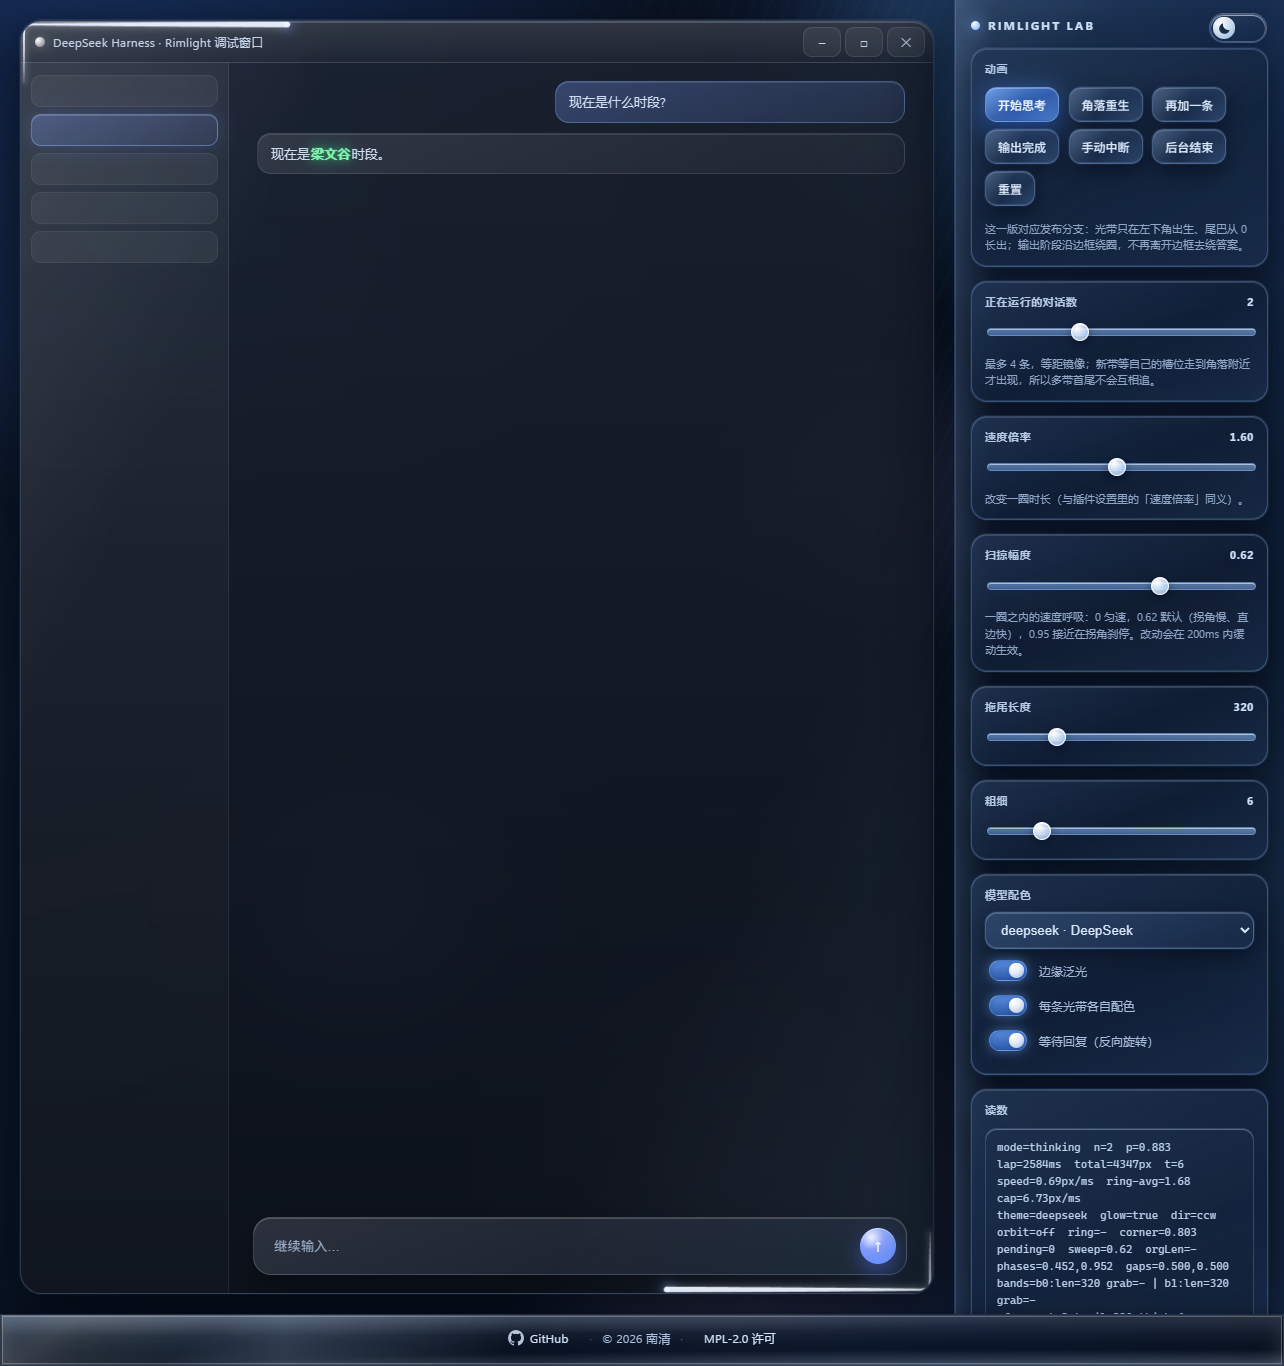
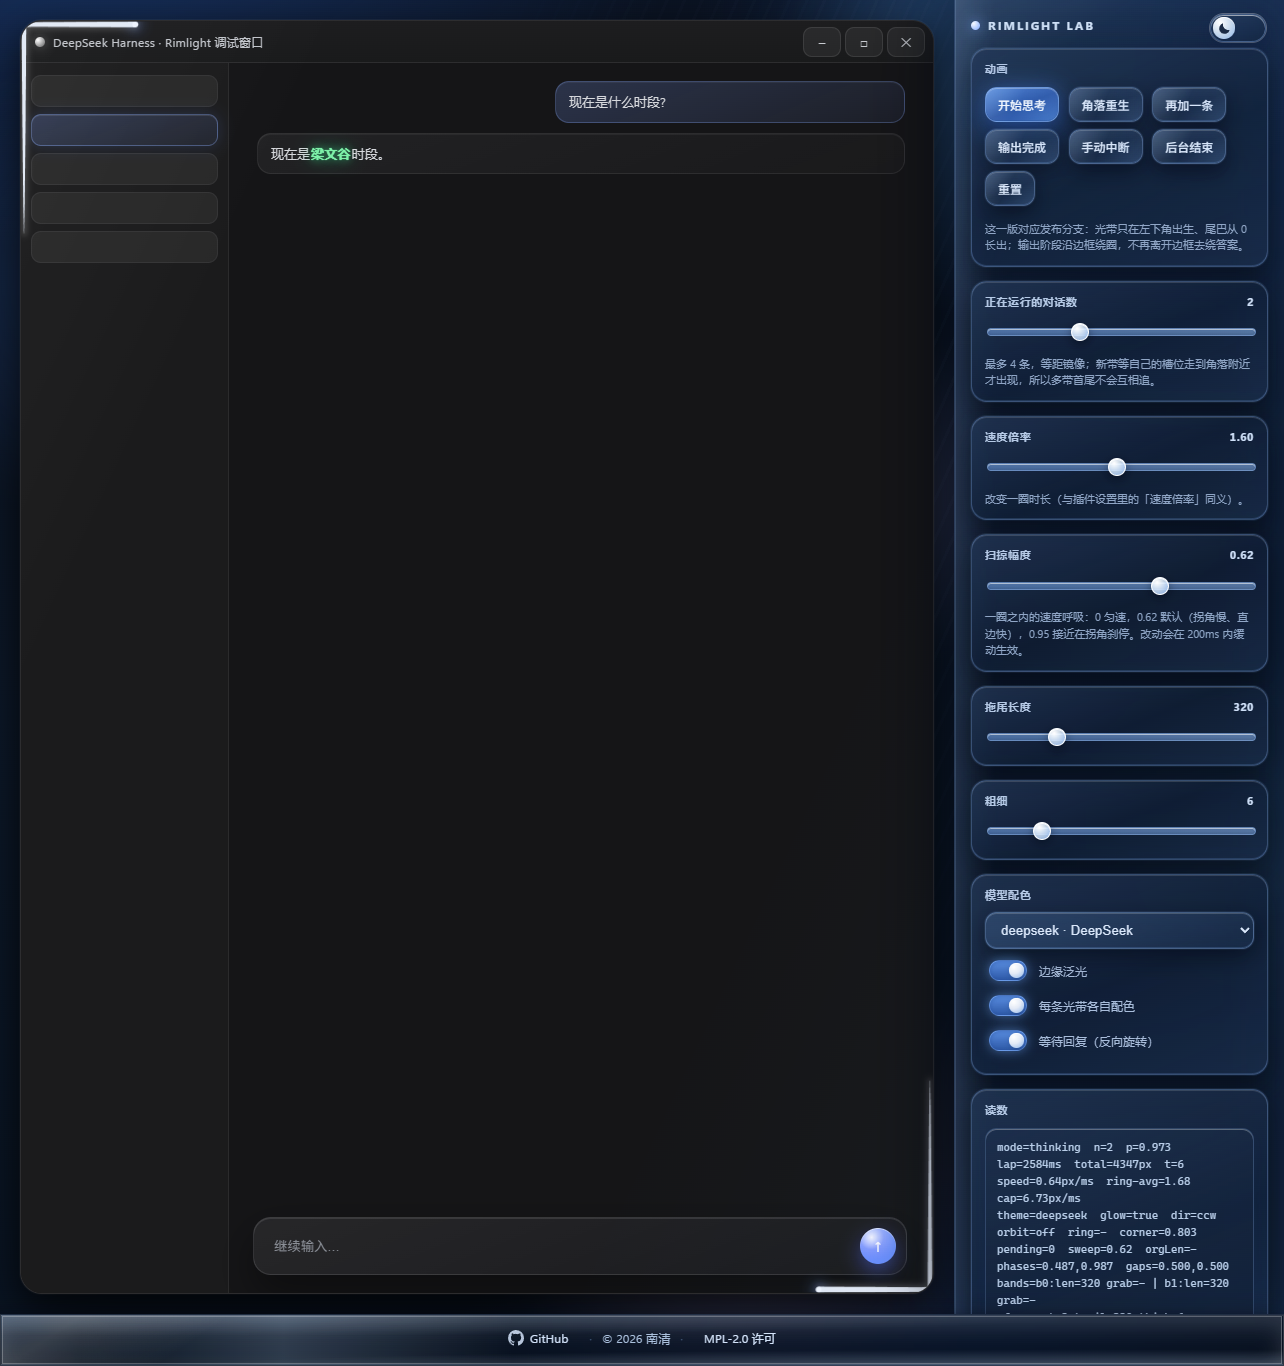
Theme the mock window per mode and fall back to a plain blur

diff --git a/lab/rimlight-lab.html b/lab/rimlight-lab.html
@@ -87,8 +87,42 @@
 		--toggle-fill: linear-gradient(158deg, rgba(40,62,94,0.82), rgba(22,38,60,0.70));
 		--toggle-knob: radial-gradient(circle at 32% 26%, #fff, rgba(226,240,255,0.9) 44%, rgba(150,190,240,0.95));
 		--toggle-ink: #1b2b45;
-		--frame-shadow: 0 40px 90px rgba(0,4,14,0.60), 0 12px 30px rgba(0,4,14,0.42), 0 2px 0 rgba(255,255,255,0.16) inset, 0 0 0 1px rgba(120,165,235,0.16);
-		--frame-border: rgba(150,192,255,0.22);
+		--frame-shadow: 0 34px 80px rgba(0,0,0,0.62), 0 10px 26px rgba(0,0,0,0.45), 0 1px 0 rgba(255,255,255,0.08) inset, 0 0 0 1px rgba(255,255,255,0.05);
+		--frame-border: rgba(255,255,255,0.10);
+		/* mock window (dark: neutral near-black, like the real client) */
+		--fr-bg: #151517;
+		--fr-sidebar: #1b1b1c;
+		--fr-titlebar: linear-gradient(180deg, #1d1d1f, #191a1b);
+		--fr-rule: rgba(255,255,255,0.07);
+		--fr-ink: #d7d9dd;
+		--fr-ink-strong: #e9ebef;
+		--fr-title-ink: #c3c6cc;
+		--fr-ctl-ink: #c8cbd1;
+		--fr-ctl-bg: rgba(255,255,255,0.06);
+		--fr-ctl-border: rgba(255,255,255,0.09);
+		--fr-row: rgba(255,255,255,0.055);
+		--fr-row-border: rgba(255,255,255,0.06);
+		--fr-row-sel: linear-gradient(160deg, rgba(122,158,255,0.24), rgba(122,158,255,0.08));
+		--fr-row-sel-border: rgba(140,175,255,0.34);
+		--fr-row-sel-glow: 0 0 16px rgba(96,140,255,0.18), 0 1px 0 rgba(255,255,255,0.10) inset;
+		--fr-bubble: linear-gradient(158deg, rgba(255,255,255,0.055), rgba(255,255,255,0.02));
+		--fr-bubble-border: rgba(255,255,255,0.075);
+		--fr-bubble-shadow: 0 1px 0 rgba(255,255,255,0.05) inset;
+		--fr-bubble-user: linear-gradient(158deg, rgba(122,158,255,0.22), rgba(122,158,255,0.07));
+		--fr-bubble-user-border: rgba(140,175,255,0.26);
+		--fr-answer: linear-gradient(158deg, rgba(255,255,255,0.05), rgba(255,255,255,0.015));
+		--fr-answer-border: rgba(255,255,255,0.08);
+		--fr-answer-shadow: 0 1px 0 rgba(255,255,255,0.05) inset, 0 12px 30px rgba(0,0,0,0.28);
+		--fr-line-a: rgba(233,235,239,0.55);
+		--fr-line-b: rgba(233,235,239,0.22);
+		--fr-composer: linear-gradient(158deg, rgba(255,255,255,0.075), rgba(255,255,255,0.02));
+		--fr-composer-border: rgba(255,255,255,0.11);
+		--fr-composer-shadow: 0 1px 0 rgba(255,255,255,0.10) inset, 0 18px 40px rgba(0,0,0,0.40);
+		--fr-placeholder: #8b8f97;
+		--fr-sheen-1: rgba(255,255,255,0.07);
+		--fr-sheen-2: rgba(120,200,255,0.06);
+		--fr-sheen-op: 0.5;
+		--fr-dot-glow: rgba(255,255,255,0.35);
 		--fallback-bg: rgba(16,26,42,0.94);
 	}
 	html[data-theme="light"] {
@@ -163,8 +197,42 @@
 		--toggle-fill: linear-gradient(158deg, rgba(250,254,255,0.85), rgba(214,236,255,0.55));
 		--toggle-knob: radial-gradient(circle at 32% 26%, #ffffff, rgba(255,255,255,0.86) 44%, rgba(190,216,250,0.95));
 		--toggle-ink: #2b4a78;
-		--frame-shadow: 0 40px 90px rgba(30,64,128,0.26), 0 12px 30px rgba(30,64,128,0.16), 0 2px 0 rgba(255,255,255,0.22) inset, 0 0 0 1px rgba(24,36,58,0.20);
-		--frame-border: rgba(255,255,255,0.30);
+		--frame-shadow: 0 30px 70px rgba(30,55,110,0.20), 0 8px 20px rgba(30,55,110,0.12), 0 0 0 1px rgba(20,20,24,0.05);
+		--frame-border: rgba(20,20,24,0.10);
+		/* mock window (light: plain white) */
+		--fr-bg: #ffffff;
+		--fr-sidebar: #f9fafb;
+		--fr-titlebar: linear-gradient(180deg, #fbfbfc, #f4f4f6);
+		--fr-rule: rgba(20,20,24,0.08);
+		--fr-ink: #24262b;
+		--fr-ink-strong: #15161a;
+		--fr-title-ink: #4b4f57;
+		--fr-ctl-ink: #4b4f57;
+		--fr-ctl-bg: rgba(20,20,24,0.035);
+		--fr-ctl-border: rgba(20,20,24,0.07);
+		--fr-row: rgba(20,20,24,0.035);
+		--fr-row-border: rgba(20,20,24,0.05);
+		--fr-row-sel: linear-gradient(160deg, rgba(122,158,255,0.20), rgba(122,158,255,0.07));
+		--fr-row-sel-border: rgba(110,150,240,0.35);
+		--fr-row-sel-glow: 0 0 14px rgba(96,140,255,0.14), 0 1px 0 rgba(255,255,255,0.9) inset;
+		--fr-bubble: linear-gradient(158deg, rgba(20,20,24,0.035), rgba(20,20,24,0.015));
+		--fr-bubble-border: rgba(20,20,24,0.07);
+		--fr-bubble-shadow: 0 1px 0 rgba(255,255,255,0.9) inset;
+		--fr-bubble-user: linear-gradient(158deg, rgba(77,107,254,0.14), rgba(77,107,254,0.06));
+		--fr-bubble-user-border: rgba(77,107,254,0.22);
+		--fr-answer: linear-gradient(158deg, rgba(20,20,24,0.03), rgba(20,20,24,0.012));
+		--fr-answer-border: rgba(20,20,24,0.07);
+		--fr-answer-shadow: 0 1px 0 rgba(255,255,255,0.9) inset, 0 10px 26px rgba(30,40,70,0.10);
+		--fr-line-a: rgba(21,22,26,0.42);
+		--fr-line-b: rgba(21,22,26,0.16);
+		--fr-composer: linear-gradient(158deg, #ffffff, #f6f8fb);
+		--fr-composer-border: rgba(20,20,24,0.10);
+		--fr-composer-shadow: 0 1px 0 rgba(255,255,255,1) inset, 0 14px 34px rgba(30,45,80,0.14);
+		--fr-placeholder: #8d9199;
+		--fr-sheen-1: rgba(255,255,255,0.90);
+		--fr-sheen-2: rgba(150,200,255,0.25);
+		--fr-sheen-op: 0.35;
+		--fr-dot-glow: rgba(120,150,255,0.55);
 		--fallback-bg: rgba(250,253,255,0.94);
 	}
 
@@ -218,6 +286,7 @@
 		border: 1px solid var(--edge-strong);
 		background: var(--toggle-fill);
 		-webkit-backdrop-filter: blur(10px) saturate(170%);
+		backdrop-filter: blur(10px) saturate(170%);
 		backdrop-filter: url(#lg-refract) blur(10px) saturate(170%);
 		box-shadow: 0 1px 0 rgba(255,255,255,0.55) inset, 0 6px 16px rgba(10,30,70,0.28), 0 0 0 1px rgba(255,255,255,0.30);
 		transition: background 260ms ease, border-color 260ms ease, box-shadow 260ms ease;
@@ -244,6 +313,7 @@
 		isolation: isolate;
 		background: var(--glass-fill);
 		-webkit-backdrop-filter: blur(var(--fr-blur)) saturate(var(--fr-sat));
+		backdrop-filter: blur(var(--fr-blur)) saturate(var(--fr-sat));
 		backdrop-filter: url(#lg-refract) blur(var(--fr-blur)) saturate(var(--fr-sat));
 		border: 1px solid var(--glass-rim);
 		box-shadow: var(--glass-shadow);
@@ -277,50 +347,53 @@
 	#stage { flex: 1 1 auto; display: flex; align-items: center; justify-content: center; padding: 20px; min-width: 0; z-index: 1; }
 
 	/* ---------------- the mock app window (stays dark: the band lives on it) ---------------- */
+	/* ---------------- the mock app window (theme aware) ---------------- */
 	#frame {
 		position: relative;
 		width: 100%; height: 100%; max-width: 1180px;
 		border-radius: 22px;
-		background:
-			linear-gradient(180deg, rgba(26,32,44,0.90), rgba(13,18,27,0.94)),
-			radial-gradient(120% 90% at 18% 0%, rgba(120,160,255,0.16), transparent 60%);
+		background: var(--fr-bg);
 		-webkit-backdrop-filter: blur(22px) saturate(140%);
 		backdrop-filter: blur(22px) saturate(140%);
 		border: 1px solid var(--frame-border);
 		box-shadow: var(--frame-shadow);
 		overflow: hidden;
+		transition: background 320ms ease, border-color 320ms ease, box-shadow 320ms ease;
 	}
 	#frame::after {
 		content: ""; position: absolute; inset: 0; border-radius: inherit; pointer-events: none;
-		background: linear-gradient(115deg, rgba(255,255,255,0.14) 0%, rgba(255,255,255,0) 22%, rgba(255,255,255,0) 74%, rgba(120,200,255,0.12) 100%);
-		mix-blend-mode: screen; opacity: 0.7;
+		background: linear-gradient(115deg, var(--fr-sheen-1) 0%, rgba(255,255,255,0) 22%, rgba(255,255,255,0) 74%, var(--fr-sheen-2) 100%);
+		mix-blend-mode: screen; opacity: var(--fr-sheen-op);
+		transition: background 320ms ease, opacity 320ms ease;
 	}
 	#frame .titlebar {
 		position: absolute; inset: 0 0 auto 0; height: 42px; display: flex; align-items: center; gap: 8px;
-		padding: 0 14px; font-size: 12px; color: #c2d0e6; letter-spacing: 0.02em;
-		background: linear-gradient(180deg, rgba(255,255,255,0.10), rgba(255,255,255,0.02));
-		border-bottom: 1px solid rgba(255,255,255,0.08);
+		padding: 0 14px; font-size: 12px; color: var(--fr-title-ink); letter-spacing: 0.02em;
+		background: var(--fr-titlebar);
+		border-bottom: 1px solid var(--fr-rule);
+		transition: background 320ms ease, color 240ms ease, border-color 320ms ease;
 	}
-	#frame .titlebar .dot { width: 10px; height: 10px; border-radius: 50%; background: radial-gradient(circle at 30% 30%, #fff, rgba(255,255,255,0.25)); box-shadow: 0 0 12px rgba(255,255,255,0.35); }
+	#frame .titlebar .dot { width: 10px; height: 10px; border-radius: 50%; background: radial-gradient(circle at 30% 30%, #fff, rgba(255,255,255,0.25)); box-shadow: 0 0 12px var(--fr-dot-glow); }
 	#frame .wincontrols { position: absolute; right: 8px; top: 6px; height: 30px; display: flex; gap: 4px; }
-	#frame .wincontrols i { width: 38px; height: 30px; display: flex; align-items: center; justify-content: center; font-style: normal; color: #c6d4ea; border-radius: 9px; background: rgba(255,255,255,0.06); border: 1px solid rgba(255,255,255,0.10); }
-	#frame .sidebar { position: absolute; left: 0; top: 42px; bottom: 0; width: 208px; padding: 12px 10px; border-right: 1px solid rgba(255,255,255,0.07); background: linear-gradient(180deg, rgba(255,255,255,0.05), rgba(255,255,255,0.015)); }
-	#frame .sidebar .row { height: 32px; border-radius: 10px; margin-bottom: 7px; background: rgba(255,255,255,0.05); border: 1px solid rgba(255,255,255,0.055); }
-	#frame .sidebar .row.sel { background: linear-gradient(160deg, rgba(122,158,255,0.30), rgba(122,158,255,0.10)); border-color: rgba(140,175,255,0.42); box-shadow: 0 0 18px rgba(96,140,255,0.22), 0 1px 0 rgba(255,255,255,0.16) inset; }
+	#frame .wincontrols i { width: 38px; height: 30px; display: flex; align-items: center; justify-content: center; font-style: normal; color: var(--fr-ctl-ink); border-radius: 9px; background: var(--fr-ctl-bg); border: 1px solid var(--fr-ctl-border); transition: background 320ms ease, color 240ms ease; }
+	#frame .sidebar { position: absolute; left: 0; top: 42px; bottom: 0; width: 208px; padding: 12px 10px; border-right: 1px solid var(--fr-rule); background: var(--fr-sidebar); transition: background 320ms ease, border-color 320ms ease; }
+	#frame .sidebar .row { height: 32px; border-radius: 10px; margin-bottom: 7px; background: var(--fr-row); border: 1px solid var(--fr-row-border); transition: background 320ms ease, border-color 320ms ease; }
+	#frame .sidebar .row.sel { background: var(--fr-row-sel); border-color: var(--fr-row-sel-border); box-shadow: var(--fr-row-sel-glow); }
 	#frame .convo { position: absolute; left: 208px; right: 0; top: 42px; bottom: 0; padding: 18px 28px 100px; overflow: hidden; }
-	#frame .bubble { border-radius: 14px; padding: 10px 13px; margin-bottom: 10px; color: #d2dff2; background: linear-gradient(158deg, rgba(255,255,255,0.10), rgba(255,255,255,0.03)); border: 1px solid rgba(255,255,255,0.10); box-shadow: 0 1px 0 rgba(255,255,255,0.10) inset; }
-	#frame .bubble.user { width: 54%; margin-left: auto; background: linear-gradient(158deg, rgba(120,158,255,0.30), rgba(120,158,255,0.10)); border-color: rgba(140,175,255,0.34); }
-	#frame #answer { border-radius: 16px; padding: 13px 15px; min-height: 56px; color: #e8f0fd; background: linear-gradient(158deg, rgba(255,255,255,0.08), rgba(255,255,255,0.02)); border: 1px solid rgba(255,255,255,0.11); box-shadow: 0 1px 0 rgba(255,255,255,0.10) inset, 0 12px 30px rgba(0,0,0,0.20); }
+	#frame .bubble { border-radius: 14px; padding: 10px 13px; margin-bottom: 10px; color: var(--fr-ink); background: var(--fr-bubble); border: 1px solid var(--fr-bubble-border); box-shadow: var(--fr-bubble-shadow); transition: background 320ms ease, color 240ms ease, border-color 320ms ease; }
+	#frame .bubble.user { width: 54%; margin-left: auto; background: var(--fr-bubble-user); border-color: var(--fr-bubble-user-border); }
+	#frame #answer { border-radius: 16px; padding: 13px 15px; min-height: 56px; color: var(--fr-ink-strong); background: var(--fr-answer); border: 1px solid var(--fr-answer-border); box-shadow: var(--fr-answer-shadow); transition: background 320ms ease, color 240ms ease, border-color 320ms ease; }
 	#frame #answer:empty { display: none; }
-	#frame #answer .ln { height: 9px; border-radius: 5px; margin-bottom: 8px; background: linear-gradient(90deg, rgba(226,238,255,0.62), rgba(226,238,255,0.30)); }
+	#frame #answer .ln { height: 9px; border-radius: 5px; margin-bottom: 8px; background: linear-gradient(90deg, var(--fr-line-a), var(--fr-line-b)); }
 	#frame .composer {
 		position: absolute; left: 232px; right: 26px; bottom: 18px; height: 58px; display: flex; align-items: center; gap: 10px;
-		padding: 0 10px 0 18px; color: #9fb0c9; border-radius: 18px;
-		background: linear-gradient(158deg, rgba(255,255,255,0.13), rgba(255,255,255,0.04));
+		padding: 0 10px 0 18px; color: var(--fr-placeholder); border-radius: 18px;
+		background: var(--fr-composer);
 		-webkit-backdrop-filter: blur(18px) saturate(150%);
 		backdrop-filter: blur(18px) saturate(150%);
-		border: 1px solid rgba(255,255,255,0.16);
-		box-shadow: 0 1px 0 rgba(255,255,255,0.18) inset, 0 18px 40px rgba(0,0,0,0.38);
+		border: 1px solid var(--fr-composer-border);
+		box-shadow: var(--fr-composer-shadow);
+		transition: background 320ms ease, color 240ms ease, border-color 320ms ease, box-shadow 320ms ease;
 	}
 	#frame #send {
 		margin-left: auto; width: 36px; height: 36px; border-radius: 50%; flex: 0 0 auto; color: #fff; font-size: 15px;
@@ -328,11 +401,13 @@
 		background: radial-gradient(circle at 32% 26%, rgba(255,255,255,0.9), rgba(255,255,255,0.2) 34%, rgba(110,150,255,0.8) 70%), linear-gradient(180deg, #7f9bff, #4d6bfe);
 		box-shadow: 0 8px 20px rgba(77,107,254,0.45), 0 1px 0 rgba(255,255,255,0.6) inset;
 	}
-	#frame #ask { flex: 1 1 auto; min-width: 0; background: transparent; border: 0; outline: 0; color: #dbe6f6; font: 15px/1.45 inherit; }
-	#frame #ask::placeholder { color: #9fb0c9; }
+	#frame #ask { flex: 1 1 auto; min-width: 0; background: transparent; border: 0; outline: 0; color: var(--fr-ink); font: 15px/1.45 inherit; }
+	#frame #ask::placeholder { color: var(--fr-placeholder); }
 	#frame .bubble .glass-word { display: inline; padding: 0; margin: 0 1px; border: 0; border-radius: 0; background: none; font-weight: 600; letter-spacing: 0.02em; vertical-align: baseline; }
 	#frame .bubble .glass-word.warm { color: #ff8b8b; text-shadow: 0 0 1px rgba(255,120,120,0.9), 0 0 10px rgba(255,72,86,0.85), 0 0 22px rgba(255,40,58,0.55); }
 	#frame .bubble .glass-word.cool { color: #7ef0a8; text-shadow: 0 0 1px rgba(120,255,180,0.9), 0 0 10px rgba(52,214,132,0.8), 0 0 20px rgba(20,180,110,0.5); }
+	html[data-theme="light"] #frame .bubble .glass-word.warm { color: #d1373f; text-shadow: 0 0 8px rgba(255,90,100,0.35); }
+	html[data-theme="light"] #frame .bubble .glass-word.cool { color: #128a4f; text-shadow: 0 0 8px rgba(60,200,130,0.30); }
 	#overlay { position: absolute; inset: 0; pointer-events: none; overflow: hidden; }
 
 	/* ---------------- control panel ---------------- */
@@ -341,6 +416,7 @@
 		width: 330px; flex: 0 0 330px; padding: 16px; overflow-y: auto; z-index: 1;
 		background: var(--panel-fill);
 		-webkit-backdrop-filter: blur(30px) saturate(185%);
+		backdrop-filter: blur(30px) saturate(185%);
 		backdrop-filter: url(#lg-refract) blur(30px) saturate(185%);
 		border-left: 1px solid var(--panel-border);
 		box-shadow: var(--panel-shadow);
@@ -364,6 +440,7 @@
 		margin-bottom: 14px; padding: 12px 13px; border-radius: 16px;
 		background: var(--card-fill);
 		-webkit-backdrop-filter: blur(10px) saturate(160%);
+		backdrop-filter: blur(10px) saturate(160%);
 		backdrop-filter: url(#lg-refract) blur(10px) saturate(160%);
 		border: 1px solid var(--card-border);
 		box-shadow: var(--card-shadow);
@@ -378,6 +455,7 @@
 		border: 1px solid var(--btn-border);
 		background: var(--btn-fill);
 		-webkit-backdrop-filter: blur(12px) saturate(170%);
+		backdrop-filter: blur(12px) saturate(170%);
 		backdrop-filter: url(#lg-refract) blur(12px) saturate(170%);
 		box-shadow: var(--btn-shadow);
 		transition: transform 130ms ease, box-shadow 170ms ease, background 170ms ease, color 170ms ease;
@@ -421,6 +499,7 @@
 		border: 1px solid var(--btn-border);
 		background: var(--select-fill);
 		-webkit-backdrop-filter: blur(12px) saturate(170%);
+		backdrop-filter: blur(12px) saturate(170%);
 		backdrop-filter: url(#lg-refract) blur(12px) saturate(170%);
 		box-shadow: var(--btn-shadow);
 		outline: none;
@@ -490,7 +569,7 @@
 	#footer .copy { color: var(--footer-copy); }
 
 	@supports not ((backdrop-filter: blur(1px)) or (-webkit-backdrop-filter: blur(1px))) {
-		.lg, #panel, #panel .grp, #panel button, #panel select, #readout { background-color: var(--fallback-bg); }
+		.lg, #panel, #panel .grp, #panel button, #panel select, #readout { background-color: var(--fallback-bg); backdrop-filter: none; -webkit-backdrop-filter: none; }
 	}
 </style>
 </head>
